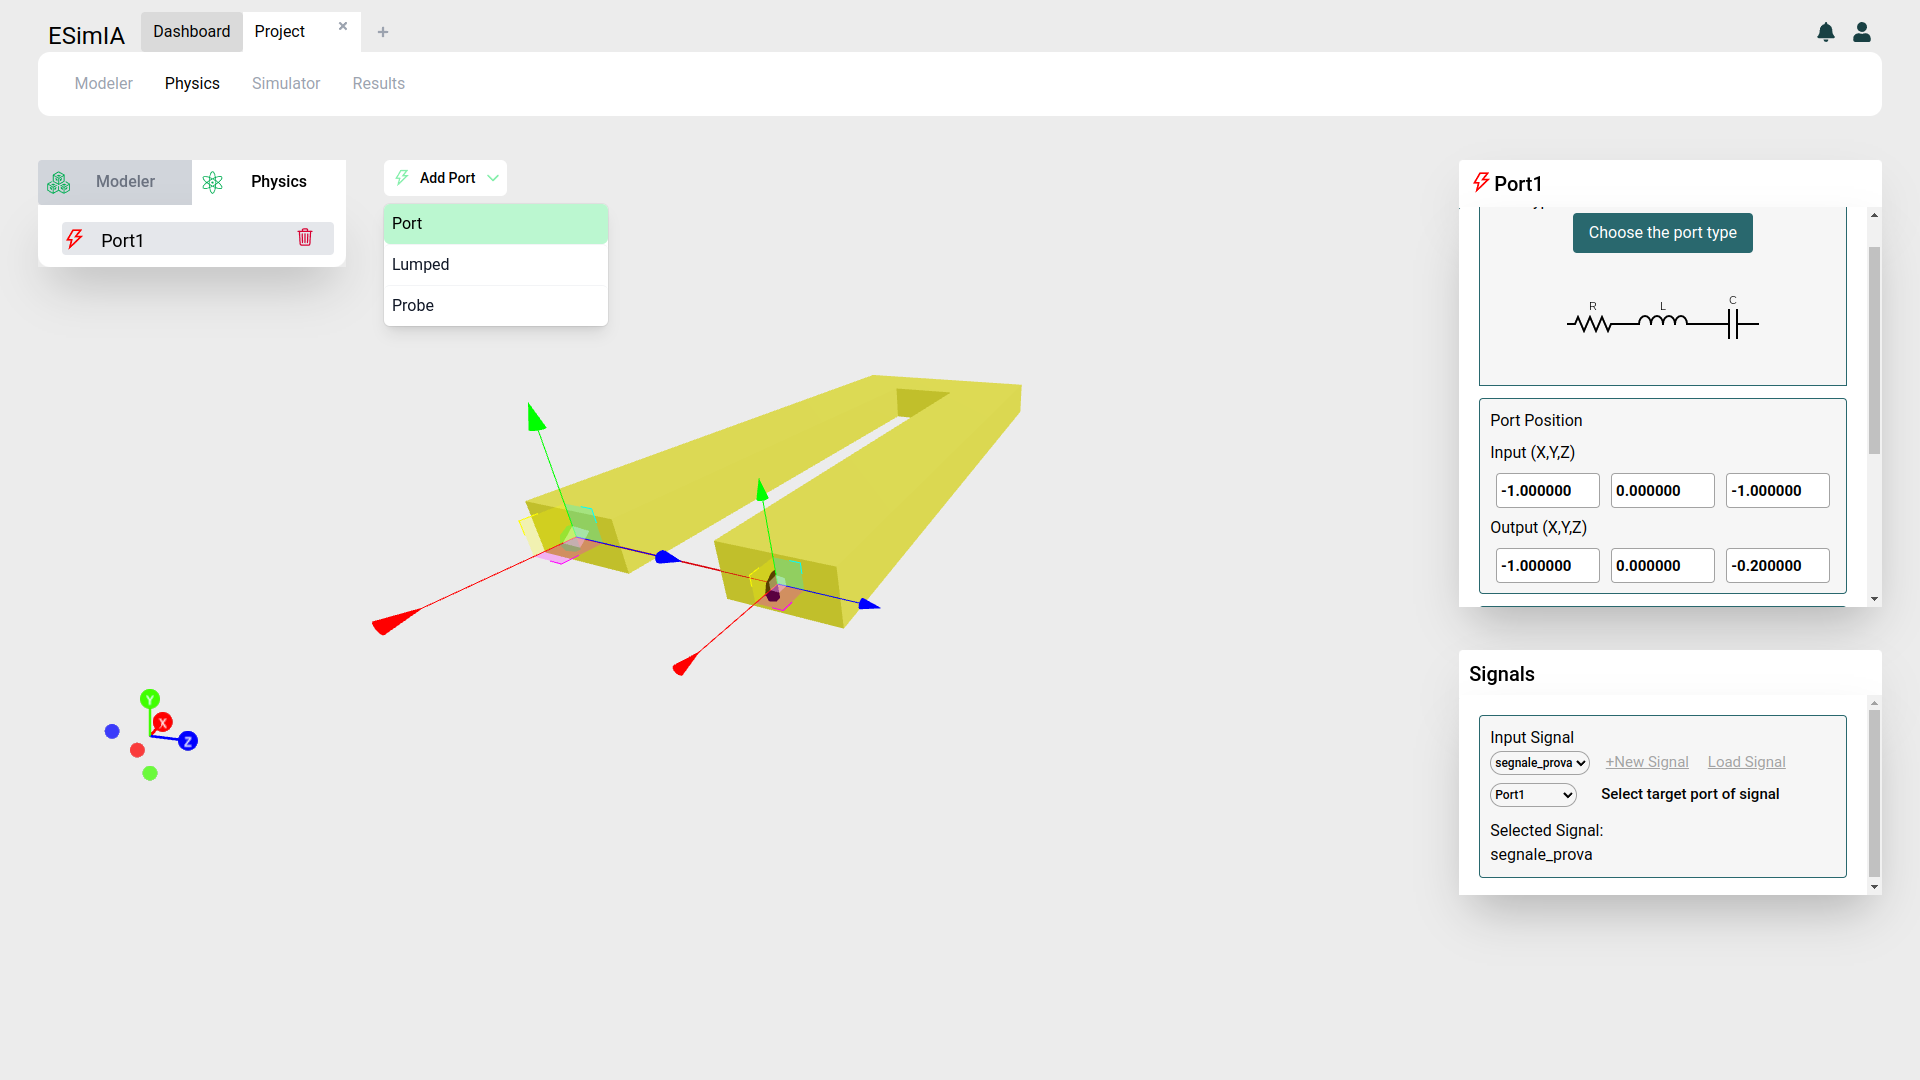
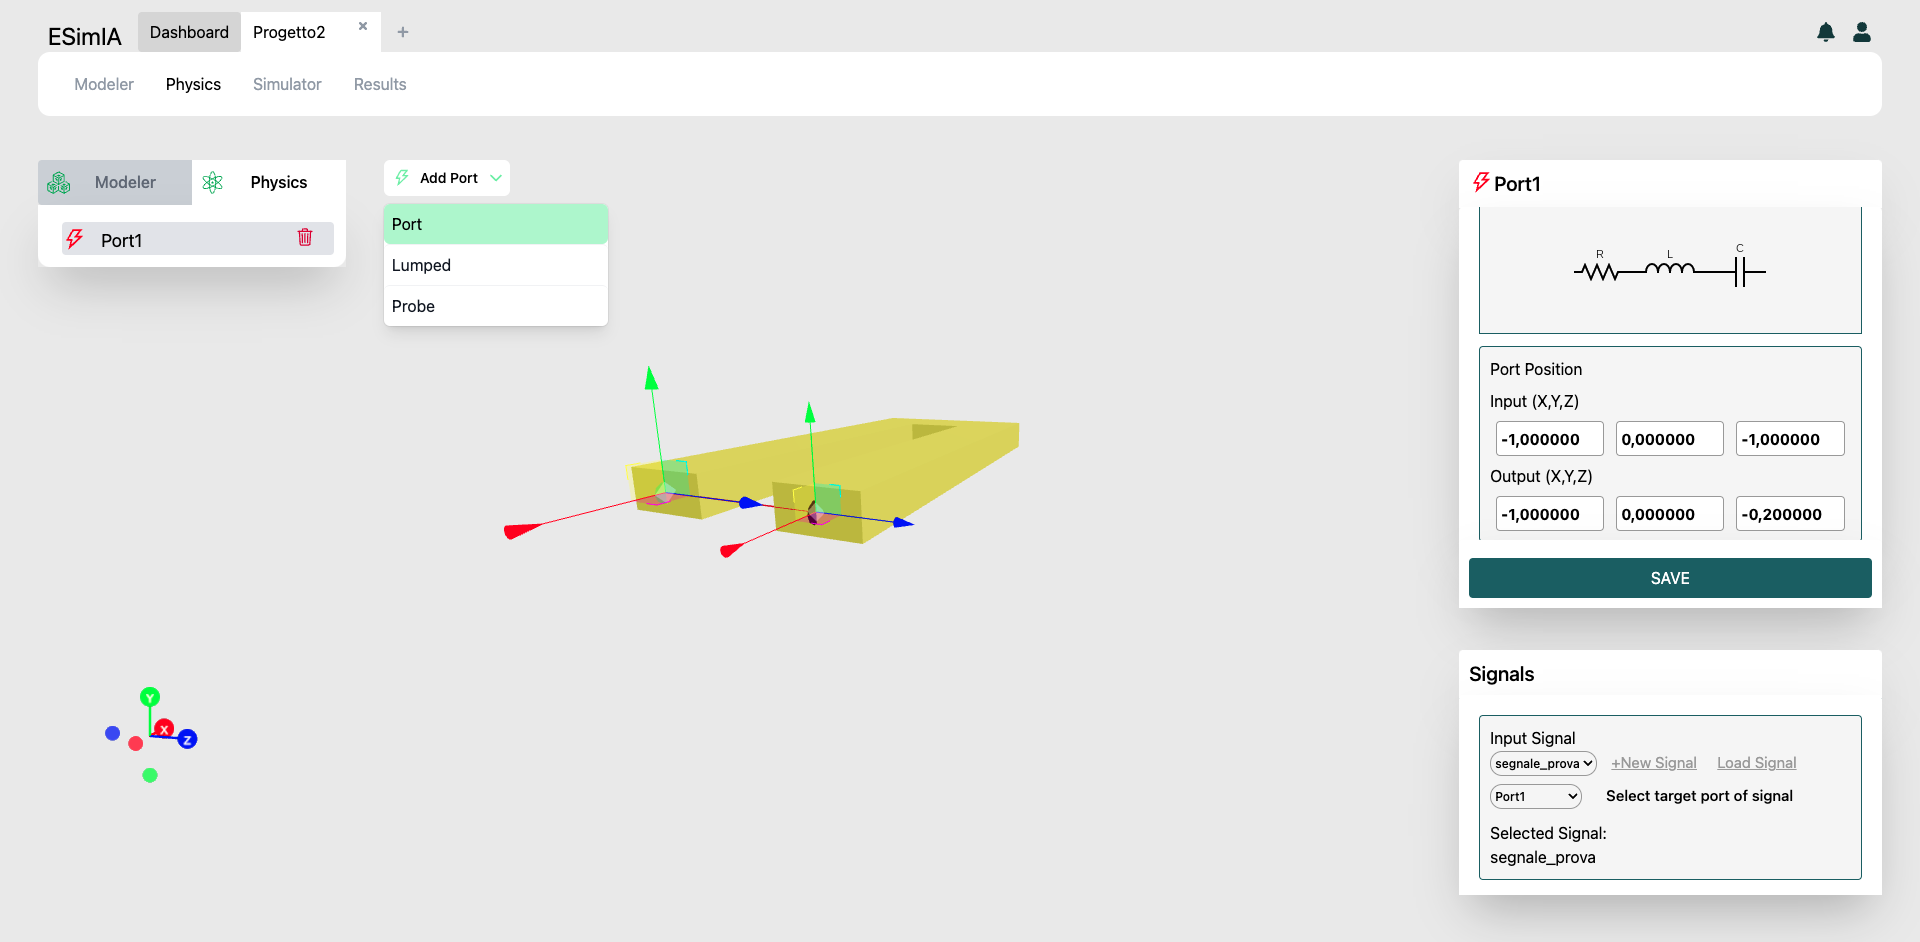
Aggiunta una nota sul pulsante save utile a salvare le configurazioni delle porte

diff --git a/ESymIA_Docs/ESymIA_Docs.md b/ESymIA_Docs/ESymIA_Docs.md
@@ -77,7 +77,11 @@ In questa sezione entriamo nel vivo della simulazione, andando proprio ad impost
 
 Le porte, costituite visivamente da coppie di elementi congiunti da una linea, definiscono innanzitutto i punti di applicazione e lettura per le correnti o differenze di potenziale in input alla simulazione.<br>
 Nella figura sottostante possiamo vederne una di esempio. Oltre alle informazioni sulle posizioni di applicazione e lettura, le porte mantengono anche informazioni specifiche sulle loro caratteristiche interne, rappresentate da un circuito associato e da una tupla di parametri RLC.
-Tutte queste informazioni si possono impostare tramite il comodo menu in alto a destra nella sezione.
+Tutte queste informazioni si possono impostare tramite il comodo menu in alto a destra nella sezione. 
+
+#### **NOTA** <!-- omit in toc -->
+Affinché queste informazioni vengano effettivamente salvate, è necessario sfruttare l'apposito pulsante *SAVE* presente nel menu, altrimenti andranno perse e non verranno mostrate in una sessione successiva. 
+Tale pulsante risulta disabilitato quando le configurazioni visualizzate corrispondono a informazioni aggiornate, non appena l'utente modifica una o più configurazioni, il pulsante viene abilitato per permettere l'aggiornamento delle informazioni.
 
 ![physics](imgs/physics.png)
 
